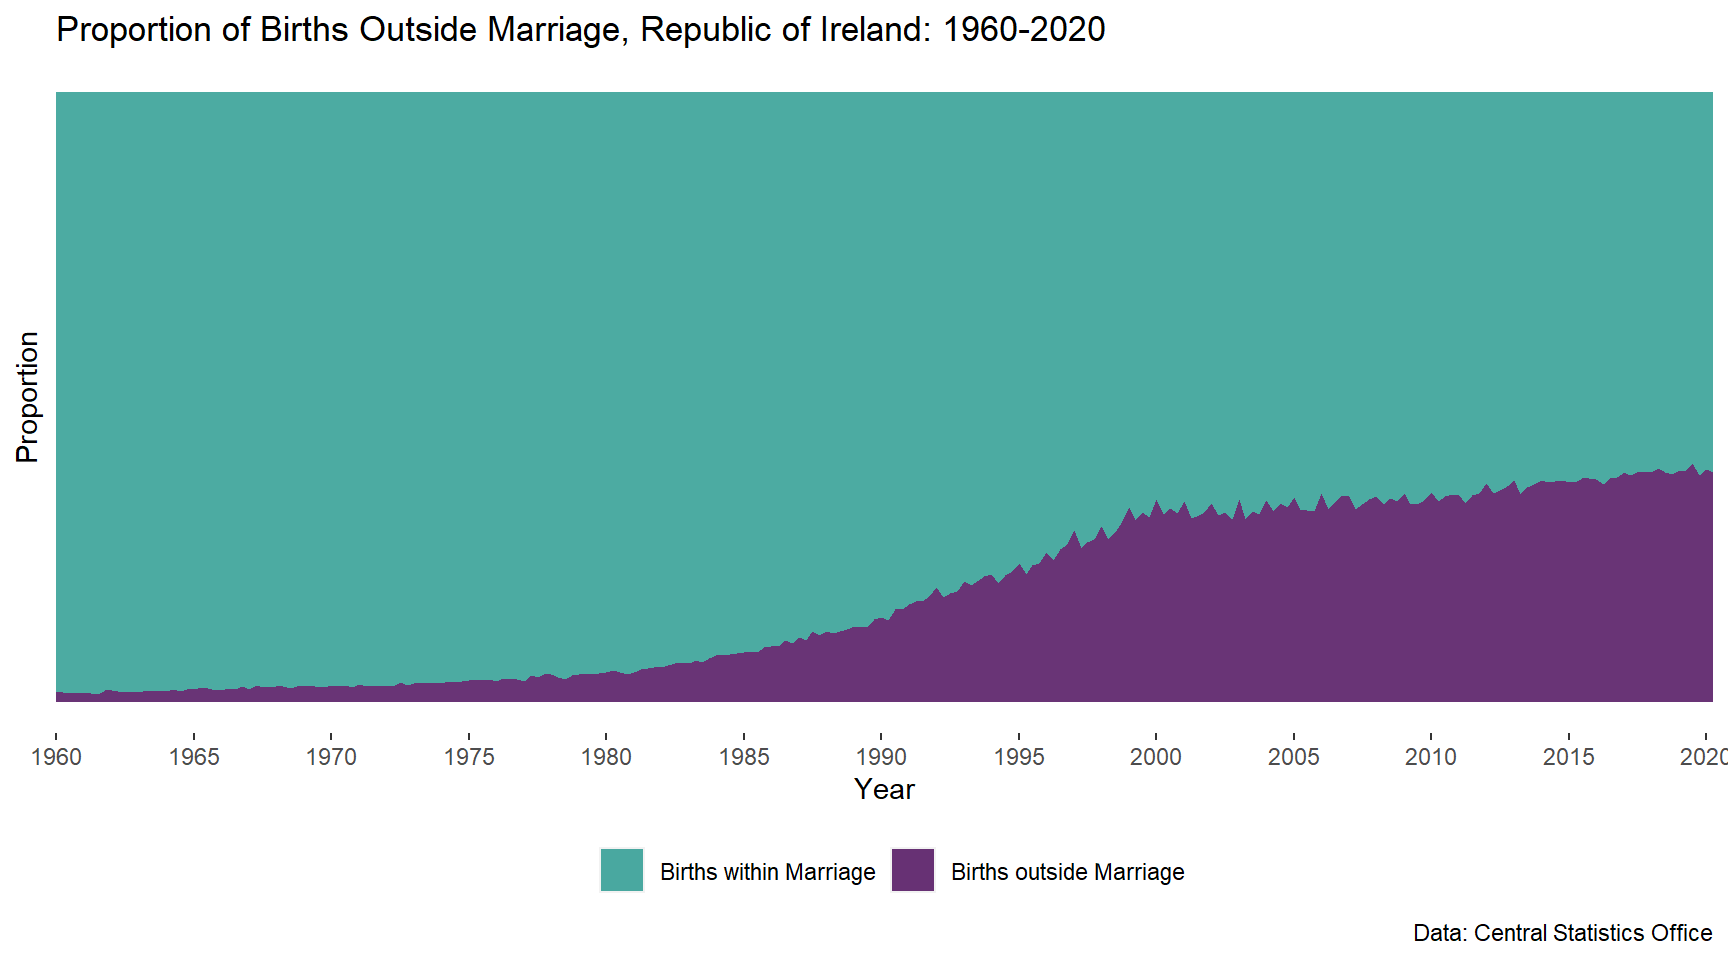
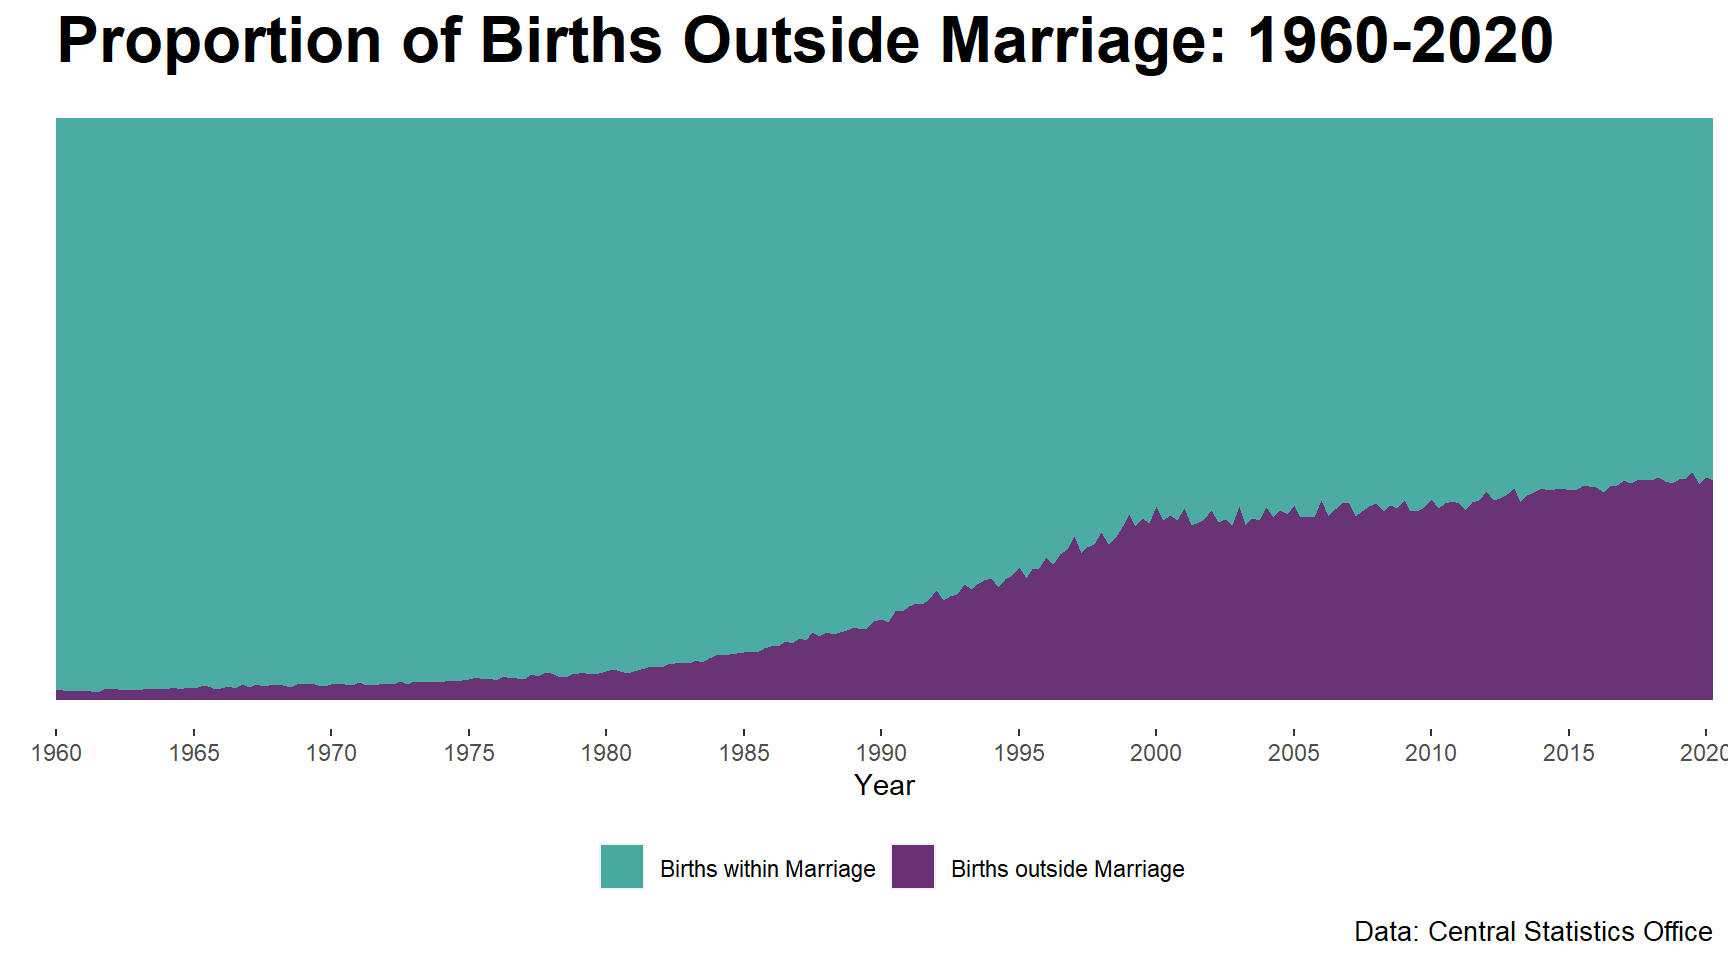
Updated births proportion plot

diff --git a/posts/2021-01-21-births-visualisation/index.html b/posts/2021-01-21-births-visualisation/index.html
@@ -258,8 +258,9 @@ p &lt;- ggplot(plot_data, aes(fill=variable, y=value, x=date)) +
 # Adding the labels
 
 p &lt;- p + labs(x = &quot;Year&quot;, 
-              y = &quot;Proportion&quot;,
-              title = &quot;Proportion of Births Outside Marriage, Republic of Ireland: 1960-2020&quot;,
+              y = &quot;&quot;,
+              title = &quot;Proportion of Births Outside Marriage: 1960-2020&quot;,
+              subtile = &quot;Republic of Ireland&quot;,
               caption = &quot;Data: Central Statistics Office&quot;) +
               scale_fill_manual(name = &#39;&#39;,
                               labels = c(&#39;Births within Marriage&#39;,
@@ -270,8 +271,10 @@ p &lt;- p + labs(x = &quot;Year&quot;,
 p &lt;- p + theme(panel.background = element_blank(),
                legend.position = &#39;bottom&#39;,
                axis.text.y = element_blank(), 
-               axis.ticks.y = element_blank())
-
+               axis.ticks.y = element_blank(),
+               plot.title = element_text(face = &quot;bold&quot;, size = 24),
+               plot.caption = element_text(size = 10),
+               plot.subtitle = element_text(size = 10))
 
 # Saving the plot file as a png
 ggsave(&quot;marriage001.png&quot;, p, width = 9, height = 4)
@@ -328,19 +331,6 @@ p</code></pre>
 
 
     
-<script type="application/javascript">
-var doNotTrack = false;
-if (!doNotTrack) {
-	(function(i,s,o,g,r,a,m){i['GoogleAnalyticsObject']=r;i[r]=i[r]||function(){
-	(i[r].q=i[r].q||[]).push(arguments)},i[r].l=1*new Date();a=s.createElement(o),
-	m=s.getElementsByTagName(o)[0];a.async=1;a.src=g;m.parentNode.insertBefore(a,m)
-	})(window,document,'script','https://www.google-analytics.com/analytics.js','ga');
-	ga('create', 'UA-173965746-1', 'auto');
-	
-	ga('send', 'pageview');
-}
-</script>
-
   </body>
 </html>
 

diff --git a/bookshelf/index.html b/bookshelf/index.html
@@ -162,19 +162,6 @@ Great book on memory training and how we can (and can&rsquo;t) remember where we
     
 
     
-<script type="application/javascript">
-var doNotTrack = false;
-if (!doNotTrack) {
-	(function(i,s,o,g,r,a,m){i['GoogleAnalyticsObject']=r;i[r]=i[r]||function(){
-	(i[r].q=i[r].q||[]).push(arguments)},i[r].l=1*new Date();a=s.createElement(o),
-	m=s.getElementsByTagName(o)[0];a.async=1;a.src=g;m.parentNode.insertBefore(a,m)
-	})(window,document,'script','https://www.google-analytics.com/analytics.js','ga');
-	ga('create', 'UA-173965746-1', 'auto');
-	
-	ga('send', 'pageview');
-}
-</script>
-
   </body>
 </html>
 

diff --git a/posts/2021-01-01-covid-animations-r/index.html b/posts/2021-01-01-covid-animations-r/index.html
@@ -398,19 +398,6 @@ anim_save(&quot;choropleth_covid_ire.gif&quot;, plot_output)</code></pre>
 
 
     
-<script type="application/javascript">
-var doNotTrack = false;
-if (!doNotTrack) {
-	(function(i,s,o,g,r,a,m){i['GoogleAnalyticsObject']=r;i[r]=i[r]||function(){
-	(i[r].q=i[r].q||[]).push(arguments)},i[r].l=1*new Date();a=s.createElement(o),
-	m=s.getElementsByTagName(o)[0];a.async=1;a.src=g;m.parentNode.insertBefore(a,m)
-	})(window,document,'script','https://www.google-analytics.com/analytics.js','ga');
-	ga('create', 'UA-173965746-1', 'auto');
-	
-	ga('send', 'pageview');
-}
-</script>
-
   </body>
 </html>
 

diff --git a/posts/2021-01-17-mapping-parler-uk-ire/index.html b/posts/2021-01-17-mapping-parler-uk-ire/index.html
@@ -282,19 +282,6 @@ map + coord_sf(ylim=c(51.4, 51.6), xlim=c(-0.25, +0.1)) +
 
 
     
-<script type="application/javascript">
-var doNotTrack = false;
-if (!doNotTrack) {
-	(function(i,s,o,g,r,a,m){i['GoogleAnalyticsObject']=r;i[r]=i[r]||function(){
-	(i[r].q=i[r].q||[]).push(arguments)},i[r].l=1*new Date();a=s.createElement(o),
-	m=s.getElementsByTagName(o)[0];a.async=1;a.src=g;m.parentNode.insertBefore(a,m)
-	})(window,document,'script','https://www.google-analytics.com/analytics.js','ga');
-	ga('create', 'UA-173965746-1', 'auto');
-	
-	ga('send', 'pageview');
-}
-</script>
-
   </body>
 </html>
 

diff --git a/posts/2020-08-01-shapefiles-r/index.html b/posts/2020-08-01-shapefiles-r/index.html
@@ -230,19 +230,6 @@ p1  </code></pre>
 
 
     
-<script type="application/javascript">
-var doNotTrack = false;
-if (!doNotTrack) {
-	(function(i,s,o,g,r,a,m){i['GoogleAnalyticsObject']=r;i[r]=i[r]||function(){
-	(i[r].q=i[r].q||[]).push(arguments)},i[r].l=1*new Date();a=s.createElement(o),
-	m=s.getElementsByTagName(o)[0];a.async=1;a.src=g;m.parentNode.insertBefore(a,m)
-	})(window,document,'script','https://www.google-analytics.com/analytics.js','ga');
-	ga('create', 'UA-173965746-1', 'auto');
-	
-	ga('send', 'pageview');
-}
-</script>
-
   </body>
 </html>
 

diff --git a/posts/2020-09-26-visualizing-strava-activities-with-r/index.html b/posts/2020-09-26-visualizing-strava-activities-with-r/index.html
@@ -245,19 +245,6 @@ p7</code></pre>
 
 
     
-<script type="application/javascript">
-var doNotTrack = false;
-if (!doNotTrack) {
-	(function(i,s,o,g,r,a,m){i['GoogleAnalyticsObject']=r;i[r]=i[r]||function(){
-	(i[r].q=i[r].q||[]).push(arguments)},i[r].l=1*new Date();a=s.createElement(o),
-	m=s.getElementsByTagName(o)[0];a.async=1;a.src=g;m.parentNode.insertBefore(a,m)
-	})(window,document,'script','https://www.google-analytics.com/analytics.js','ga');
-	ga('create', 'UA-173965746-1', 'auto');
-	
-	ga('send', 'pageview');
-}
-</script>
-
   </body>
 </html>
 

diff --git a/heatmaps/index.html b/heatmaps/index.html
@@ -101,19 +101,6 @@
     
 
     
-<script type="application/javascript">
-var doNotTrack = false;
-if (!doNotTrack) {
-	(function(i,s,o,g,r,a,m){i['GoogleAnalyticsObject']=r;i[r]=i[r]||function(){
-	(i[r].q=i[r].q||[]).push(arguments)},i[r].l=1*new Date();a=s.createElement(o),
-	m=s.getElementsByTagName(o)[0];a.async=1;a.src=g;m.parentNode.insertBefore(a,m)
-	})(window,document,'script','https://www.google-analytics.com/analytics.js','ga');
-	ga('create', 'UA-173965746-1', 'auto');
-	
-	ga('send', 'pageview');
-}
-</script>
-
   </body>
 </html>
 

diff --git a/index.html b/index.html
@@ -163,19 +163,6 @@
     
 
     
-<script type="application/javascript">
-var doNotTrack = false;
-if (!doNotTrack) {
-	(function(i,s,o,g,r,a,m){i['GoogleAnalyticsObject']=r;i[r]=i[r]||function(){
-	(i[r].q=i[r].q||[]).push(arguments)},i[r].l=1*new Date();a=s.createElement(o),
-	m=s.getElementsByTagName(o)[0];a.async=1;a.src=g;m.parentNode.insertBefore(a,m)
-	})(window,document,'script','https://www.google-analytics.com/analytics.js','ga');
-	ga('create', 'UA-173965746-1', 'auto');
-	
-	ga('send', 'pageview');
-}
-</script>
-
   </body>
 </html>
 

diff --git a/post/index.html b/post/index.html
@@ -160,19 +160,6 @@
     
 
     
-<script type="application/javascript">
-var doNotTrack = false;
-if (!doNotTrack) {
-	(function(i,s,o,g,r,a,m){i['GoogleAnalyticsObject']=r;i[r]=i[r]||function(){
-	(i[r].q=i[r].q||[]).push(arguments)},i[r].l=1*new Date();a=s.createElement(o),
-	m=s.getElementsByTagName(o)[0];a.async=1;a.src=g;m.parentNode.insertBefore(a,m)
-	})(window,document,'script','https://www.google-analytics.com/analytics.js','ga');
-	ga('create', 'UA-173965746-1', 'auto');
-	
-	ga('send', 'pageview');
-}
-</script>
-
   </body>
 </html>
 

diff --git a/about/index.html b/about/index.html
@@ -96,19 +96,6 @@
     
 
     
-<script type="application/javascript">
-var doNotTrack = false;
-if (!doNotTrack) {
-	(function(i,s,o,g,r,a,m){i['GoogleAnalyticsObject']=r;i[r]=i[r]||function(){
-	(i[r].q=i[r].q||[]).push(arguments)},i[r].l=1*new Date();a=s.createElement(o),
-	m=s.getElementsByTagName(o)[0];a.async=1;a.src=g;m.parentNode.insertBefore(a,m)
-	})(window,document,'script','https://www.google-analytics.com/analytics.js','ga');
-	ga('create', 'UA-173965746-1', 'auto');
-	
-	ga('send', 'pageview');
-}
-</script>
-
   </body>
 </html>
 

diff --git a/categories/index.html b/categories/index.html
@@ -87,19 +87,6 @@
     
 
     
-<script type="application/javascript">
-var doNotTrack = false;
-if (!doNotTrack) {
-	(function(i,s,o,g,r,a,m){i['GoogleAnalyticsObject']=r;i[r]=i[r]||function(){
-	(i[r].q=i[r].q||[]).push(arguments)},i[r].l=1*new Date();a=s.createElement(o),
-	m=s.getElementsByTagName(o)[0];a.async=1;a.src=g;m.parentNode.insertBefore(a,m)
-	})(window,document,'script','https://www.google-analytics.com/analytics.js','ga');
-	ga('create', 'UA-173965746-1', 'auto');
-	
-	ga('send', 'pageview');
-}
-</script>
-
   </body>
 </html>
 

diff --git a/tags/index.html b/tags/index.html
@@ -87,19 +87,6 @@
     
 
     
-<script type="application/javascript">
-var doNotTrack = false;
-if (!doNotTrack) {
-	(function(i,s,o,g,r,a,m){i['GoogleAnalyticsObject']=r;i[r]=i[r]||function(){
-	(i[r].q=i[r].q||[]).push(arguments)},i[r].l=1*new Date();a=s.createElement(o),
-	m=s.getElementsByTagName(o)[0];a.async=1;a.src=g;m.parentNode.insertBefore(a,m)
-	})(window,document,'script','https://www.google-analytics.com/analytics.js','ga');
-	ga('create', 'UA-173965746-1', 'auto');
-	
-	ga('send', 'pageview');
-}
-</script>
-
   </body>
 </html>
 
